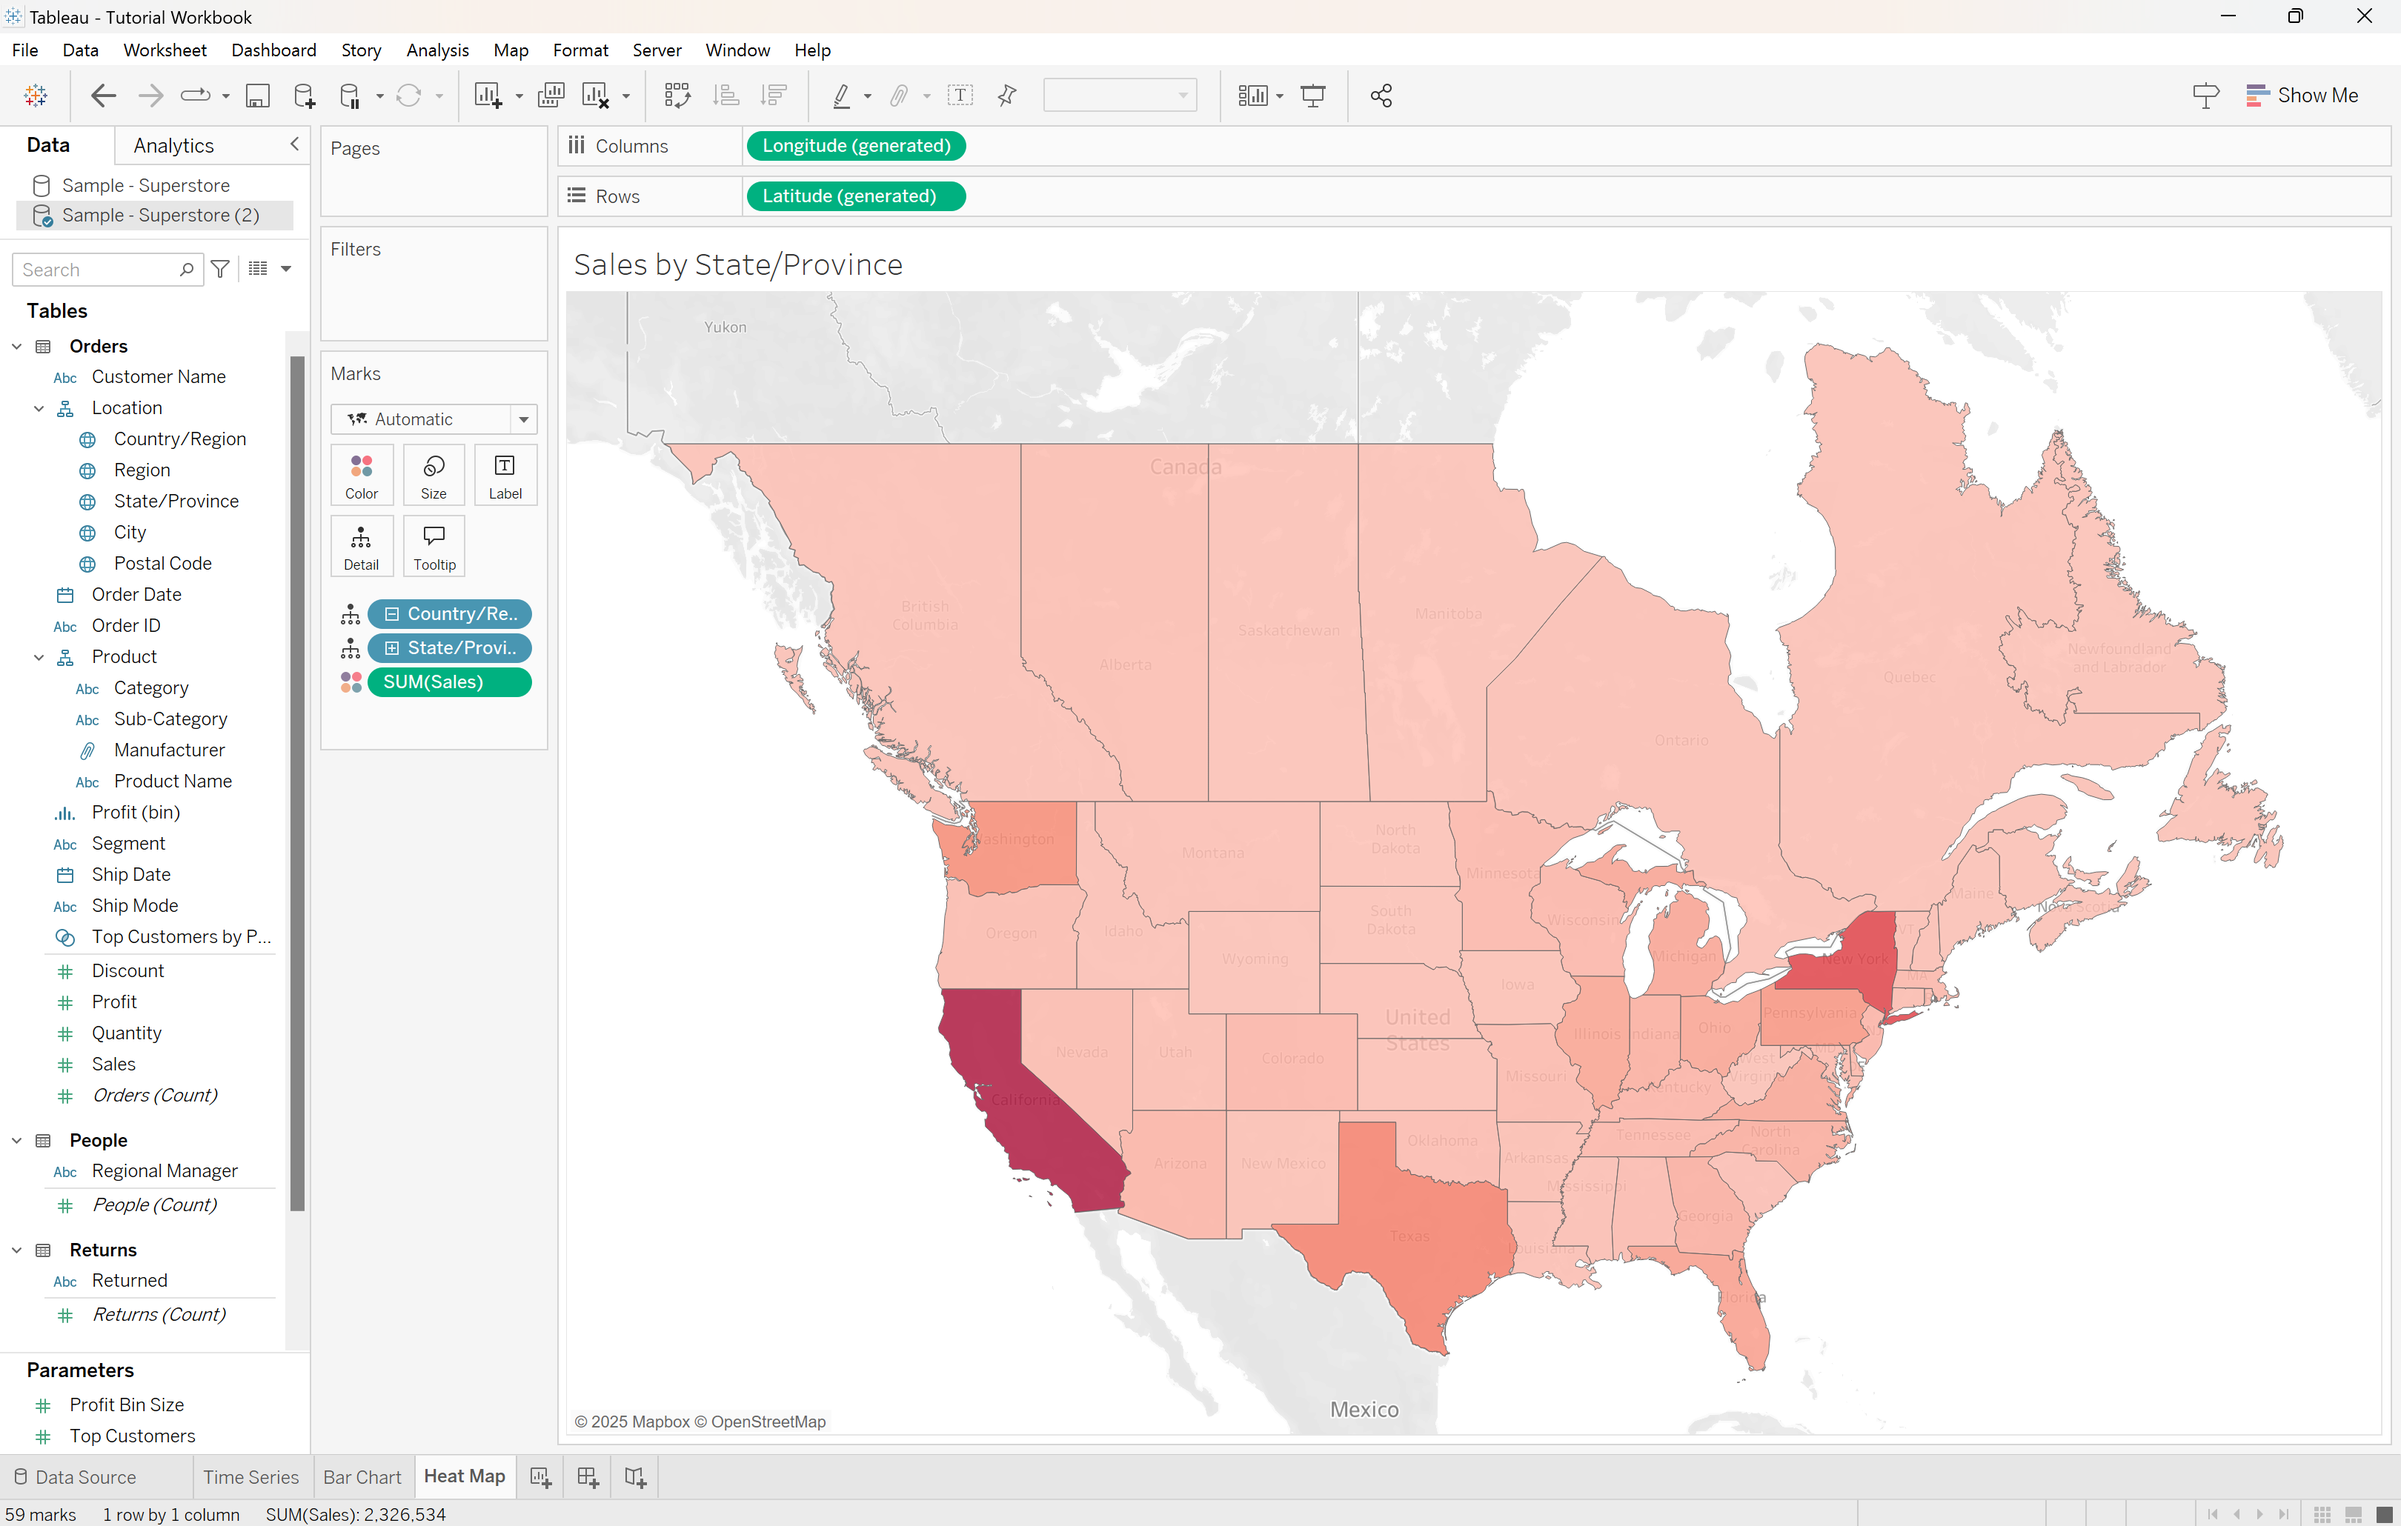
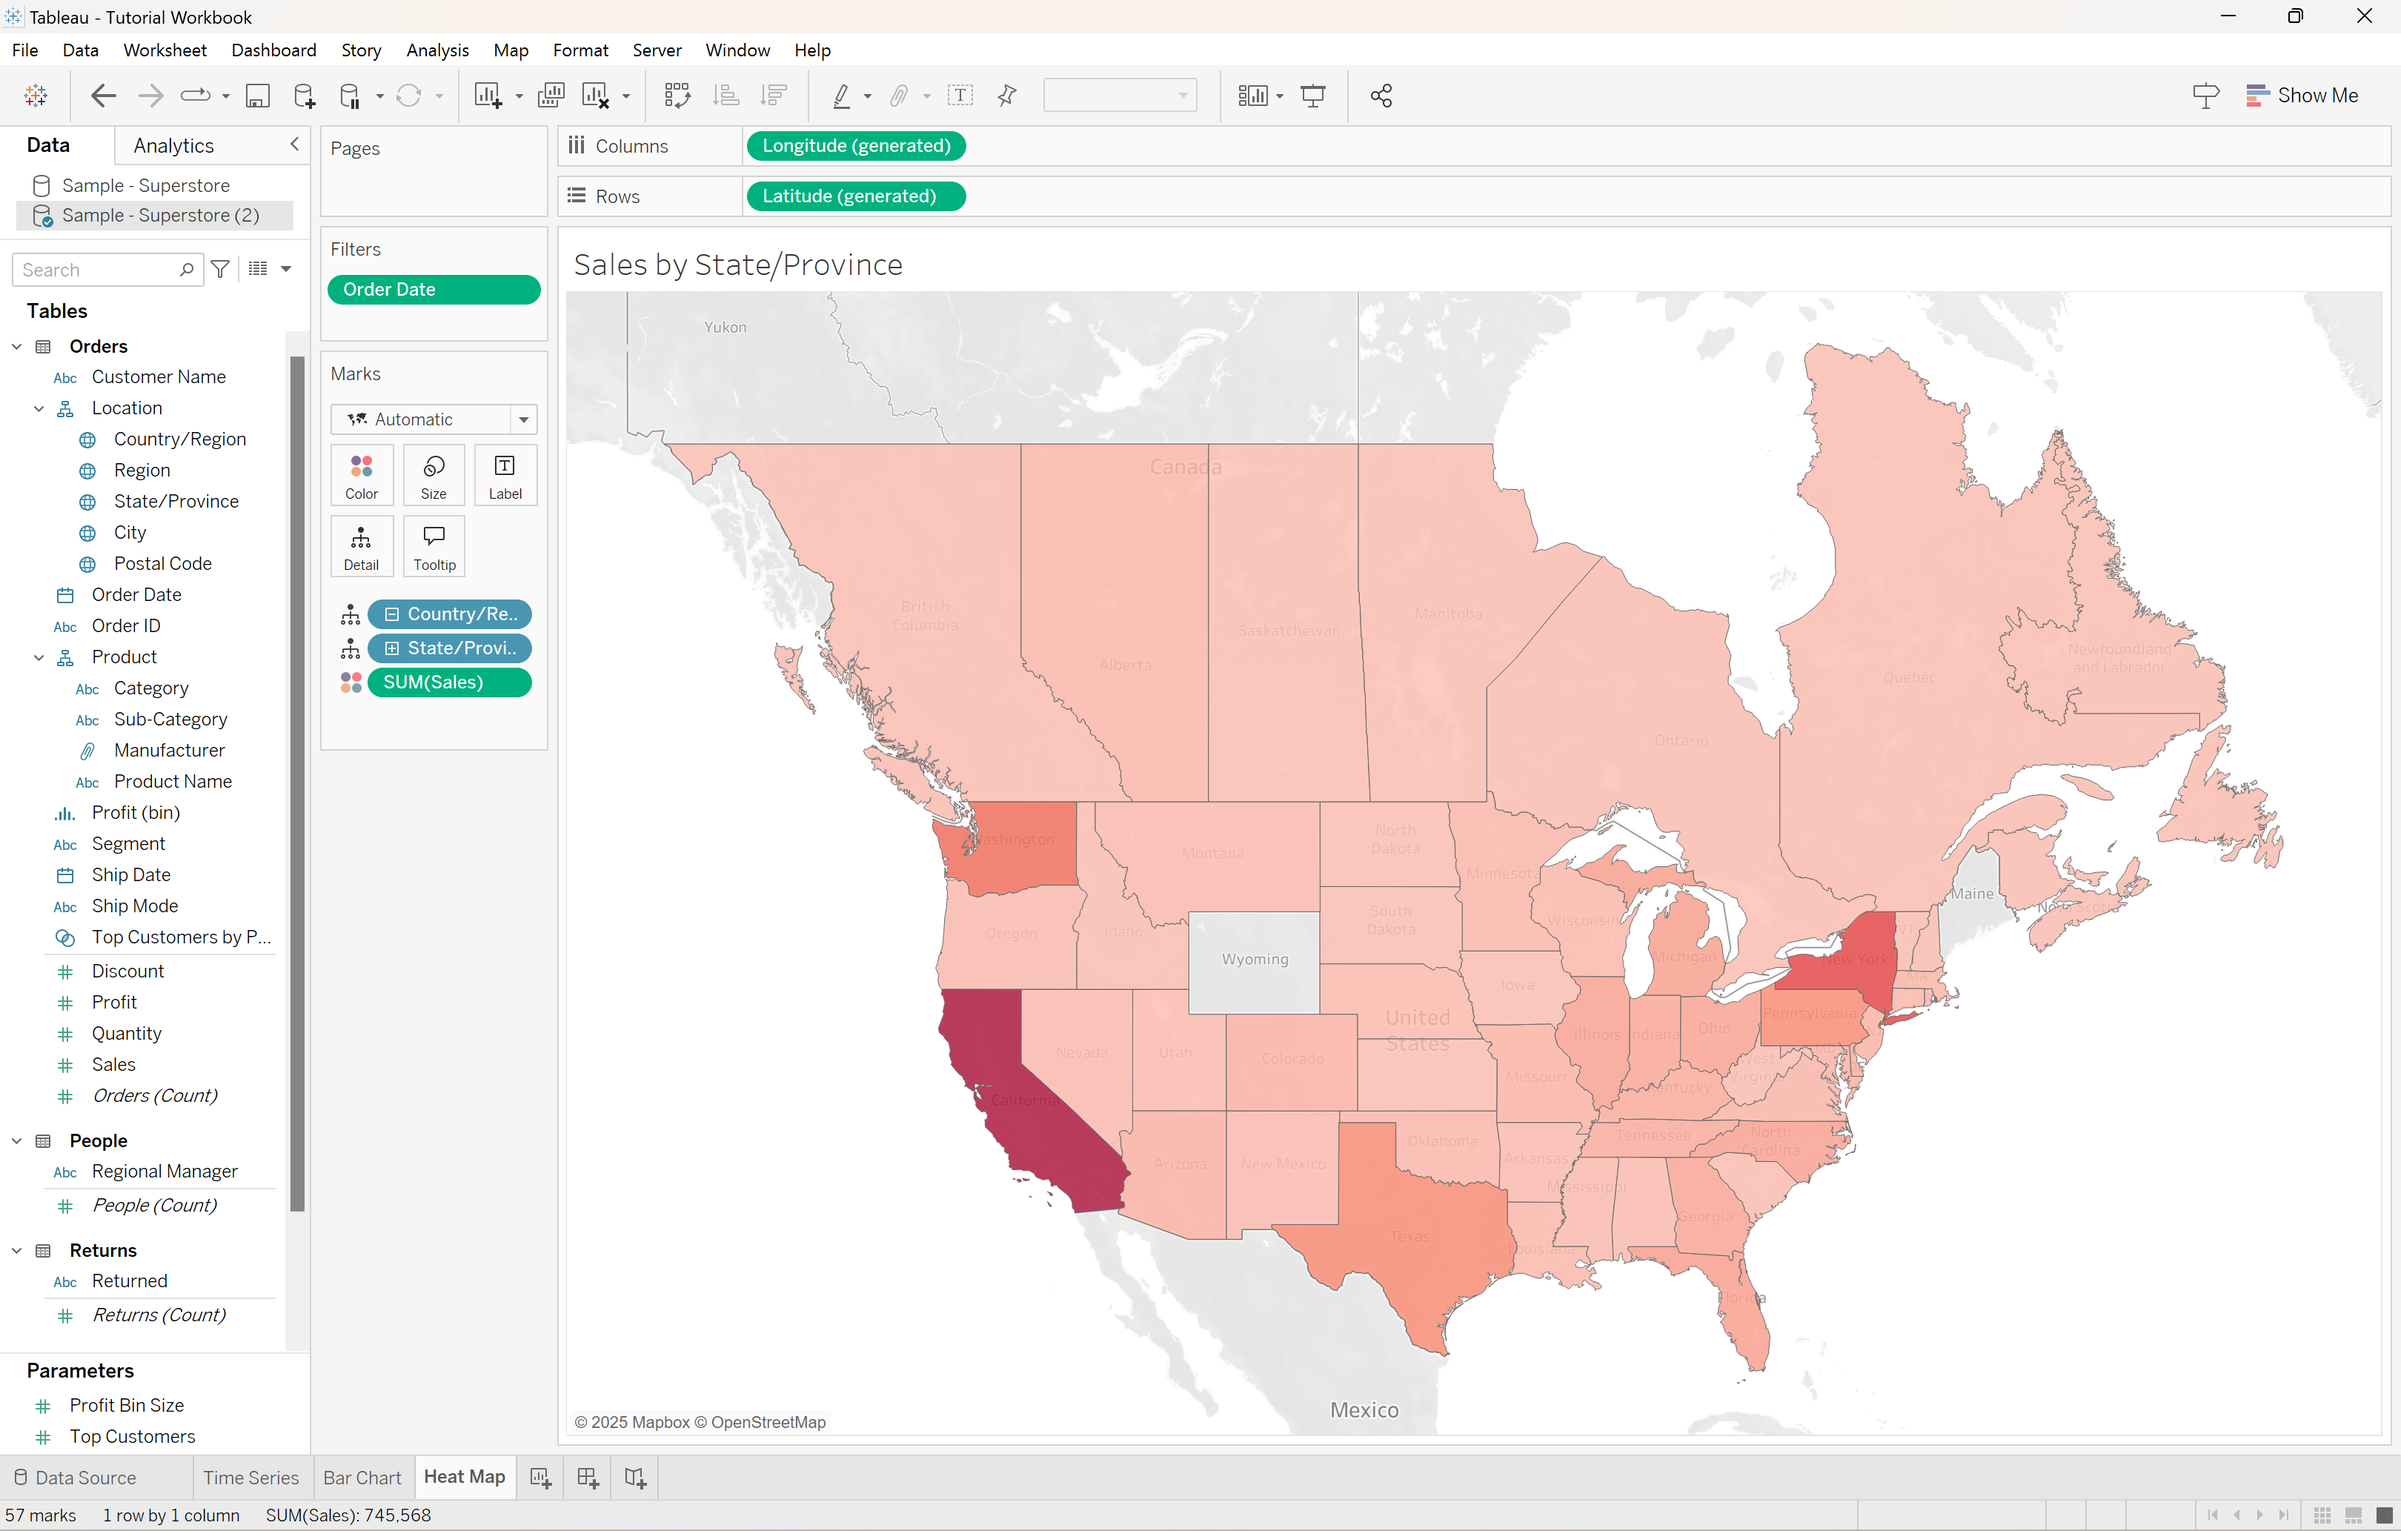
corrected date filter

diff --git a/_posts/2025-02-03-tableau-tutorial.md b/_posts/2025-02-03-tableau-tutorial.md
@@ -121,6 +121,10 @@ This is where one of my favorite features of Tableau comes in! Clicking the Show
 
 ![Figure 13](https://sofiadscribner.github.io/insights-unlocked-blog/assets/img/tab-13.png)
 
-This is exactly what we're looking for! Change the color to match the other visualizations, and rename the graph to something descriptive.
+This is exactly what we're looking for! Change the color to match the other visualizations, and rename the graph to something descriptive. Don't forget to only display data from 2024.
 
 ![Figure 14](https://sofiadscribner.github.io/insights-unlocked-blog/assets/img/tab-14.png)
+
+#### Step 3: Creating the Dashboard
+
+Now comes the best part! 
